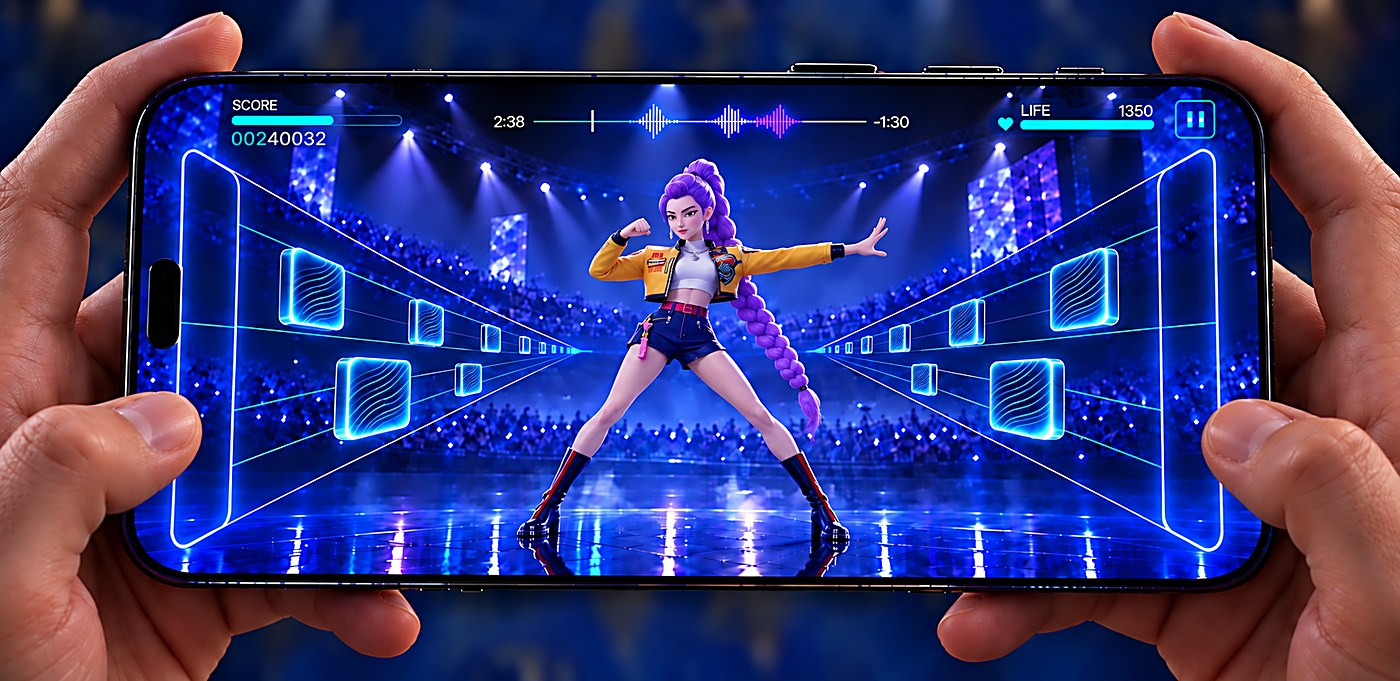
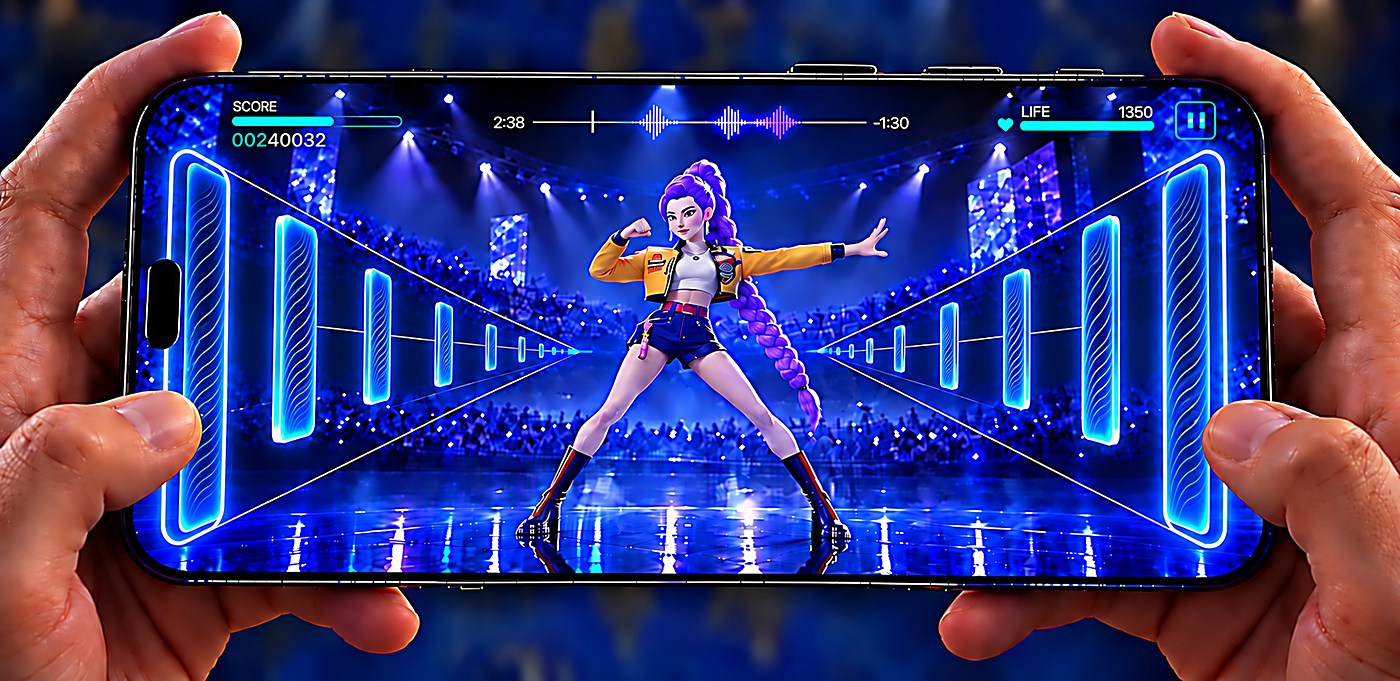
Principal de Interfaz vertical: opcion C con bloques mas largos

diff --git a/index.html b/index.html
@@ -882,13 +882,13 @@ footer{padding:clamp(2.5rem,7vh,4rem) var(--gutter);border-top:1px solid var(--h
         <img src="assets/vert-casilleros.jpg" alt="Interfaz vertical con casilleros laterales y profundidad en eje Z" />
       </div>
 
-      <p class="note" style="margin-top:1.4rem;">Un casillero por lado, dibujado con contorno ne&oacute;n. De cada uno sale un abanico de gu&iacute;as que converge en <b>un solo punto detr&aacute;s del personaje</b>: los bloques nacen ah&iacute;, chicos y apretados, y crecen a medida que se acercan a su casillero.</p>
+      <p class="note" style="margin-top:1.4rem;">Un casillero por lado, dibujado con contorno ne&oacute;n, y <b>una sola hilera de bloques</b> por corredor. De cada casillero sale un abanico de gu&iacute;as que converge en <b>un solo punto detr&aacute;s del personaje</b>: las piezas nacen ah&iacute;, diminutas, y crecen una tras otra hasta llegar a tama&ntilde;o completo.</p>
       <p class="note" style="margin-top:.9rem;">La interfaz deja de competir con el escenario y pasa a vivir dentro de &eacute;l. El centro queda libre para el personaje y para la c&aacute;mara.</p>
 
-      <p class="eyebrow" style="margin:clamp(2rem,5vh,3rem) 0 .9rem;color:var(--blue);">Dos lecturas del mismo tablero</p>
+      <p class="eyebrow" style="margin:clamp(2rem,5vh,3rem) 0 .9rem;color:var(--blue);">Tres lecturas del mismo tablero</p>
       <div class="fuga">
         <figure>
-          <img src="assets/vert-casilleros.jpg" alt="Opcion A, casillero plano con varias filas de bloques" />
+          <img src="assets/vert-casilleros-a.jpg" alt="Opcion A, casillero plano con varias filas de bloques" />
           <figcaption><span class="k">Opci&oacute;n A &middot; Plano</span>El casillero es un marco de contorno y varias filas de bloques viajan hacia &eacute;l</figcaption>
         </figure>
         <figure>
@@ -948,7 +948,7 @@ footer{padding:clamp(2.5rem,7vh,4rem) var(--gutter);border-top:1px solid var(--h
           <figcaption><span class="k">Horizontal</span>El pad en el piso, fuga al horizonte</figcaption>
         </figure>
         <figure>
-          <img src="assets/vert-casilleros.jpg" alt="Interfaz vertical, casilleros a los lados" />
+          <img src="assets/vert-casilleros-a.jpg" alt="Interfaz vertical, casilleros a los lados" />
           <figcaption><span class="k">Vertical</span>El mismo pad, rotado noventa grados</figcaption>
         </figure>
       </div>
